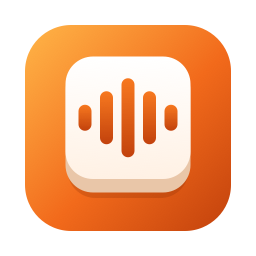
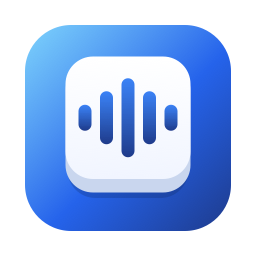
Bolkey 0.2.1: blue/orange editions, tinted pill, ready notice

diff --git a/index.html b/index.html
@@ -60,7 +60,7 @@
 </head>
 <body>
 <main>
-  <span class="tag">Preview v0.2.0 · macOS · Apple Silicon</span>
+  <span class="tag">Preview v0.2.1 · macOS · Apple Silicon</span>
   <header>
     <img src="assets/bolkey-icon.png" alt="">
     <div>
@@ -74,26 +74,27 @@
   <div class="cards">
     <section class="card">
       <div class="title"><img src="assets/bolkey-icon.png" alt=""><h3>Bolkey</h3></div>
-      <p class="sub">Most accurate</p>
+      <p class="sub">Most accurate · recommended · blue</p>
       <ul>
         <li>Large Hinglish speech model (Whisper large-v3-turbo, fine-tuned)</li>
         <li>Text in about 0.3–0.6 s after you let go of Fn</li>
         <li>About 0.7 GB of memory while the model is loaded; it frees itself after 5 minutes idle</li>
       </ul>
-      <a class="btn" href="https://github.com/ShubhamSingh047/voice-dictation-app/releases/download/v0.2.0/Bolkey-0.2.0-macOS-arm64.dmg">Download</a><span class="size">522 MB</span>
+      <a class="btn" href="https://github.com/ShubhamSingh047/voice-dictation-app/releases/download/v0.2.1/Bolkey-0.2.1-macOS-arm64.dmg">Download</a><span class="size">523 MB</span>
     </section>
     <section class="card">
       <div class="title"><img src="assets/bolkey-lite-icon.png" alt=""><h3>Bolkey Lite</h3></div>
-      <p class="sub">Small and fastest</p>
+      <p class="sub">Small and fastest · orange · experimental</p>
       <ul>
         <li>Small model (Whisper base size), distilled for Indian speech</li>
         <li>Text in about 0.2 s after you let go of Fn</li>
         <li>About 130 MB of memory while the model is loaded; it frees itself after 5 minutes idle</li>
+        <li>Noticeably less accurate on English; best for short Hindi and Hinglish</li>
       </ul>
-      <a class="btn" href="https://github.com/ShubhamSingh047/voice-dictation-app/releases/download/v0.2.0/Bolkey-Lite-0.2.0-macOS-arm64.dmg">Download</a><span class="size">62 MB</span>
+      <a class="btn" href="https://github.com/ShubhamSingh047/voice-dictation-app/releases/download/v0.2.1/Bolkey-Lite-0.2.1-macOS-arm64.dmg">Download</a><span class="size">62 MB</span>
     </section>
   </div>
-  <p class="note">Needs a Mac with Apple Silicon (M1 or newer) and macOS 11 or later. Run one version at a time: both listen for the Fn key.</p>
+  <p class="note">Needs a Mac with Apple Silicon (M1 or newer) and macOS 11 or later. Run one version at a time: both listen for the Fn key. The pill on screen is tinted with the running version's colour: blue for Bolkey, orange for Bolkey Lite.</p>
 
   <h2>Install</h2>
   <ol>
@@ -120,15 +121,15 @@
   <p>Speech recognition runs on your Mac. Bolkey makes no network connections, keeps no recordings, and has no account or analytics.</p>
 
   <h2>Checksums (SHA-256)</h2>
-  <pre>a73c3e7d99e14467edae8a30d62605d1c610f4c33b260c05b594127d3b77b986  Bolkey-0.2.0-macOS-arm64.dmg
-6dd4b15a075c6a2e70d8fc99f187f6a0d941a8072ccd47cf7c905867c6e2c56b  Bolkey-Lite-0.2.0-macOS-arm64.dmg</pre>
+  <pre>4ca804bffae4737dfbe26681d74fc1f04ab639c796a7c6b89e74ddae600c6831  Bolkey-0.2.1-macOS-arm64.dmg
+db410f1c1baa827824fa970d768a7651816c83d8be9ddc6a922d24147ee8c283  Bolkey-Lite-0.2.1-macOS-arm64.dmg</pre>
   <p>Check with <code>shasum -a 256 &lt;file&gt;.dmg</code>. Earlier versions are on the <a href="https://github.com/ShubhamSingh047/voice-dictation-app/releases">releases page</a>.</p>
 
   <h2>Known limits of this preview</h2>
   <ul>
     <li>macOS only for now. Windows, Android and iOS are planned.</li>
     <li>Not notarized by Apple, so the first launch needs "Open Anyway".</li>
-    <li>Bolkey Lite is less accurate on English than Bolkey.</li>
+    <li>Bolkey Lite is noticeably less accurate on English than Bolkey; use Bolkey for English.</li>
     <li>The microphone starts about 0.13 s after Fn goes down: start speaking a moment after you press it.</li>
   </ul>
 

diff --git a/README.md b/README.md
@@ -8,8 +8,8 @@
 
 | Version | Download | Best for |
 |---|---|---|
-| Bolkey | [Bolkey-0.2.0-macOS-arm64.dmg](https://github.com/ShubhamSingh047/voice-dictation-app/releases/download/v0.2.0/Bolkey-0.2.0-macOS-arm64.dmg) (522 MB) | Highest accuracy |
-| Bolkey Lite | [Bolkey-Lite-0.2.0-macOS-arm64.dmg](https://github.com/ShubhamSingh047/voice-dictation-app/releases/download/v0.2.0/Bolkey-Lite-0.2.0-macOS-arm64.dmg) (62 MB) | Smallest and fastest |
+| Bolkey | [Bolkey-0.2.1-macOS-arm64.dmg](https://github.com/ShubhamSingh047/voice-dictation-app/releases/download/v0.2.1/Bolkey-0.2.1-macOS-arm64.dmg) (523 MB) | Highest accuracy (recommended), blue |
+| Bolkey Lite | [Bolkey-Lite-0.2.1-macOS-arm64.dmg](https://github.com/ShubhamSingh047/voice-dictation-app/releases/download/v0.2.1/Bolkey-Lite-0.2.1-macOS-arm64.dmg) (62 MB) | Smallest and fastest, orange; weaker on English |
 
 Requires a Mac with Apple Silicon (M1 or newer) and macOS 11 or later.
 
